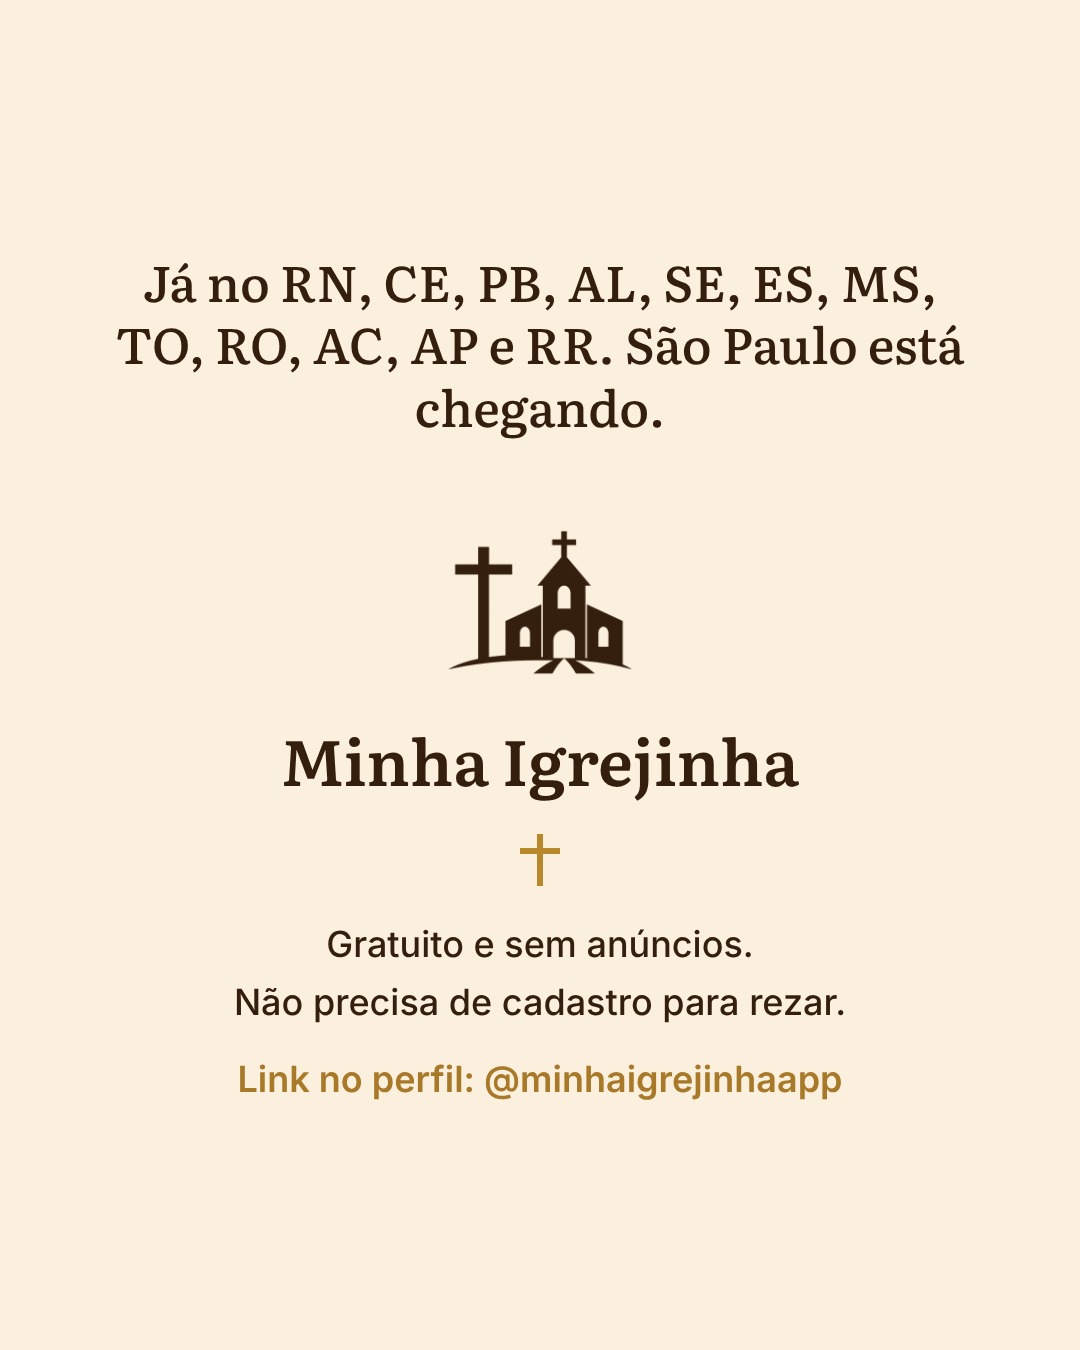
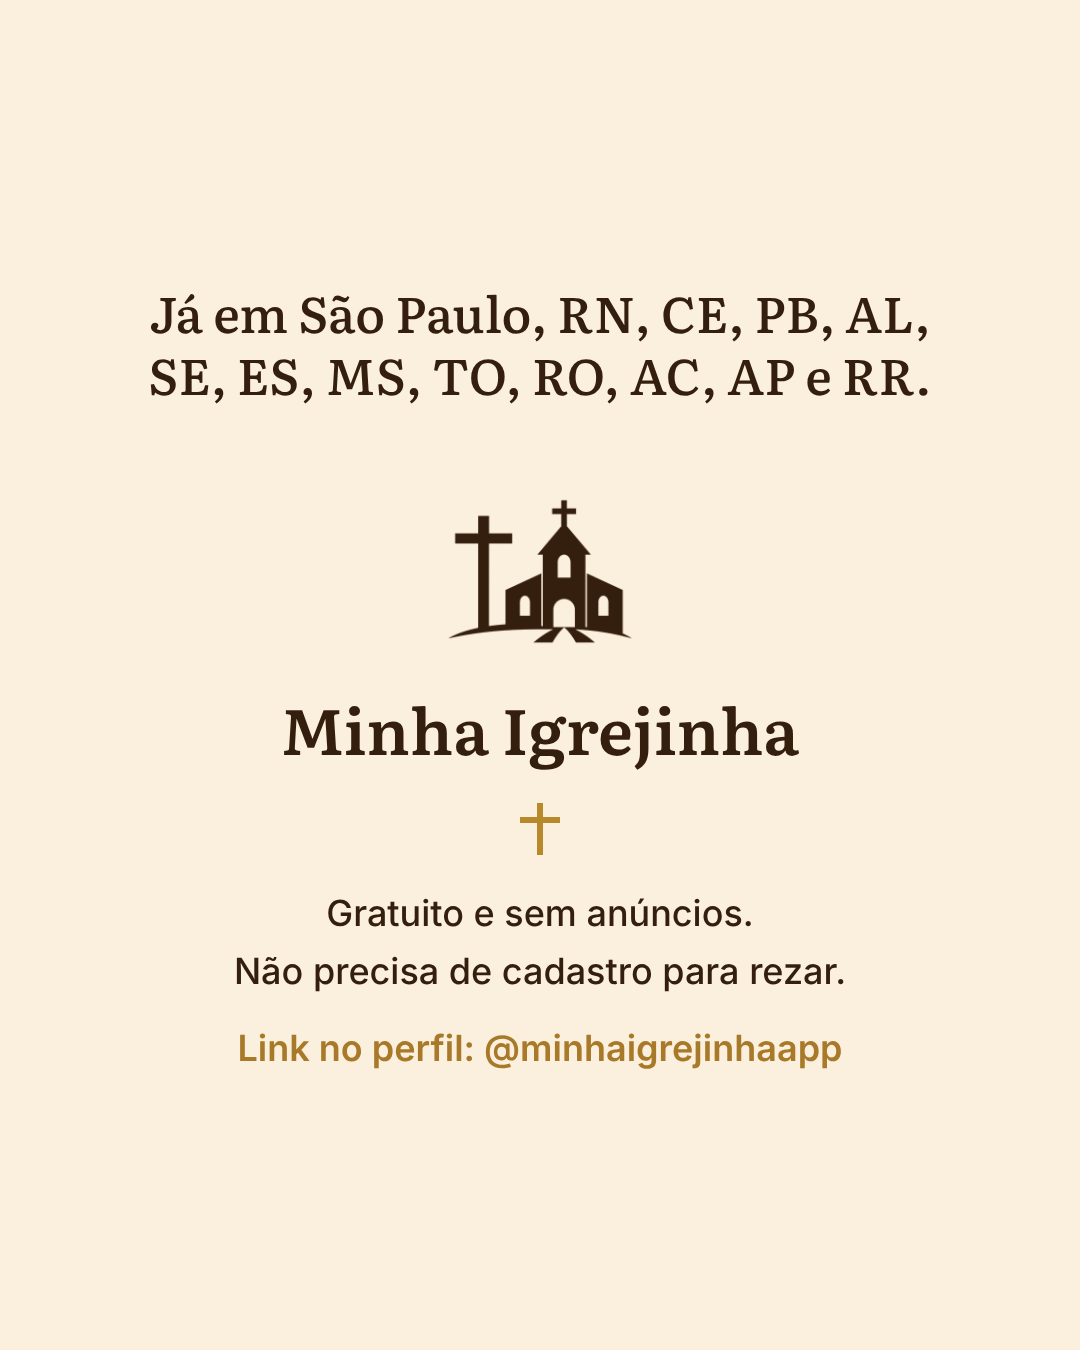
Instagram: post de missas com São Paulo
Claude-Session: https://claude.ai/code/session_01KkDATWAAHk8rZXQWk2D87j

Changed region(s): [[0.2139, 0.5289, 0.7944, 0.8089], [0.1222, 0.1867, 0.8861, 0.3422], [0.4278, 0.3733, 0.5806, 0.4978]]

diff --git a/docs/marca/instagram/FILA.md b/docs/marca/instagram/FILA.md
@@ -3,7 +3,7 @@
 O dono pede um por vez, na hora de postar. Cada pasta tem as lâminas (01.png...) e a `legenda.txt`.
 
 1. `post2-novena-apresentacao/` (novena da padroeira de Natal; só até 20/11)
-2. `post-missas/` (antes de postar: trocar a última lâmina se São Paulo já estiver no app)
+2. `post-missas/` (São Paulo já incluído em 13/11)
 3. `post-biblia/`
 4. `post-terco/`
 5. `post-oracoes/`
